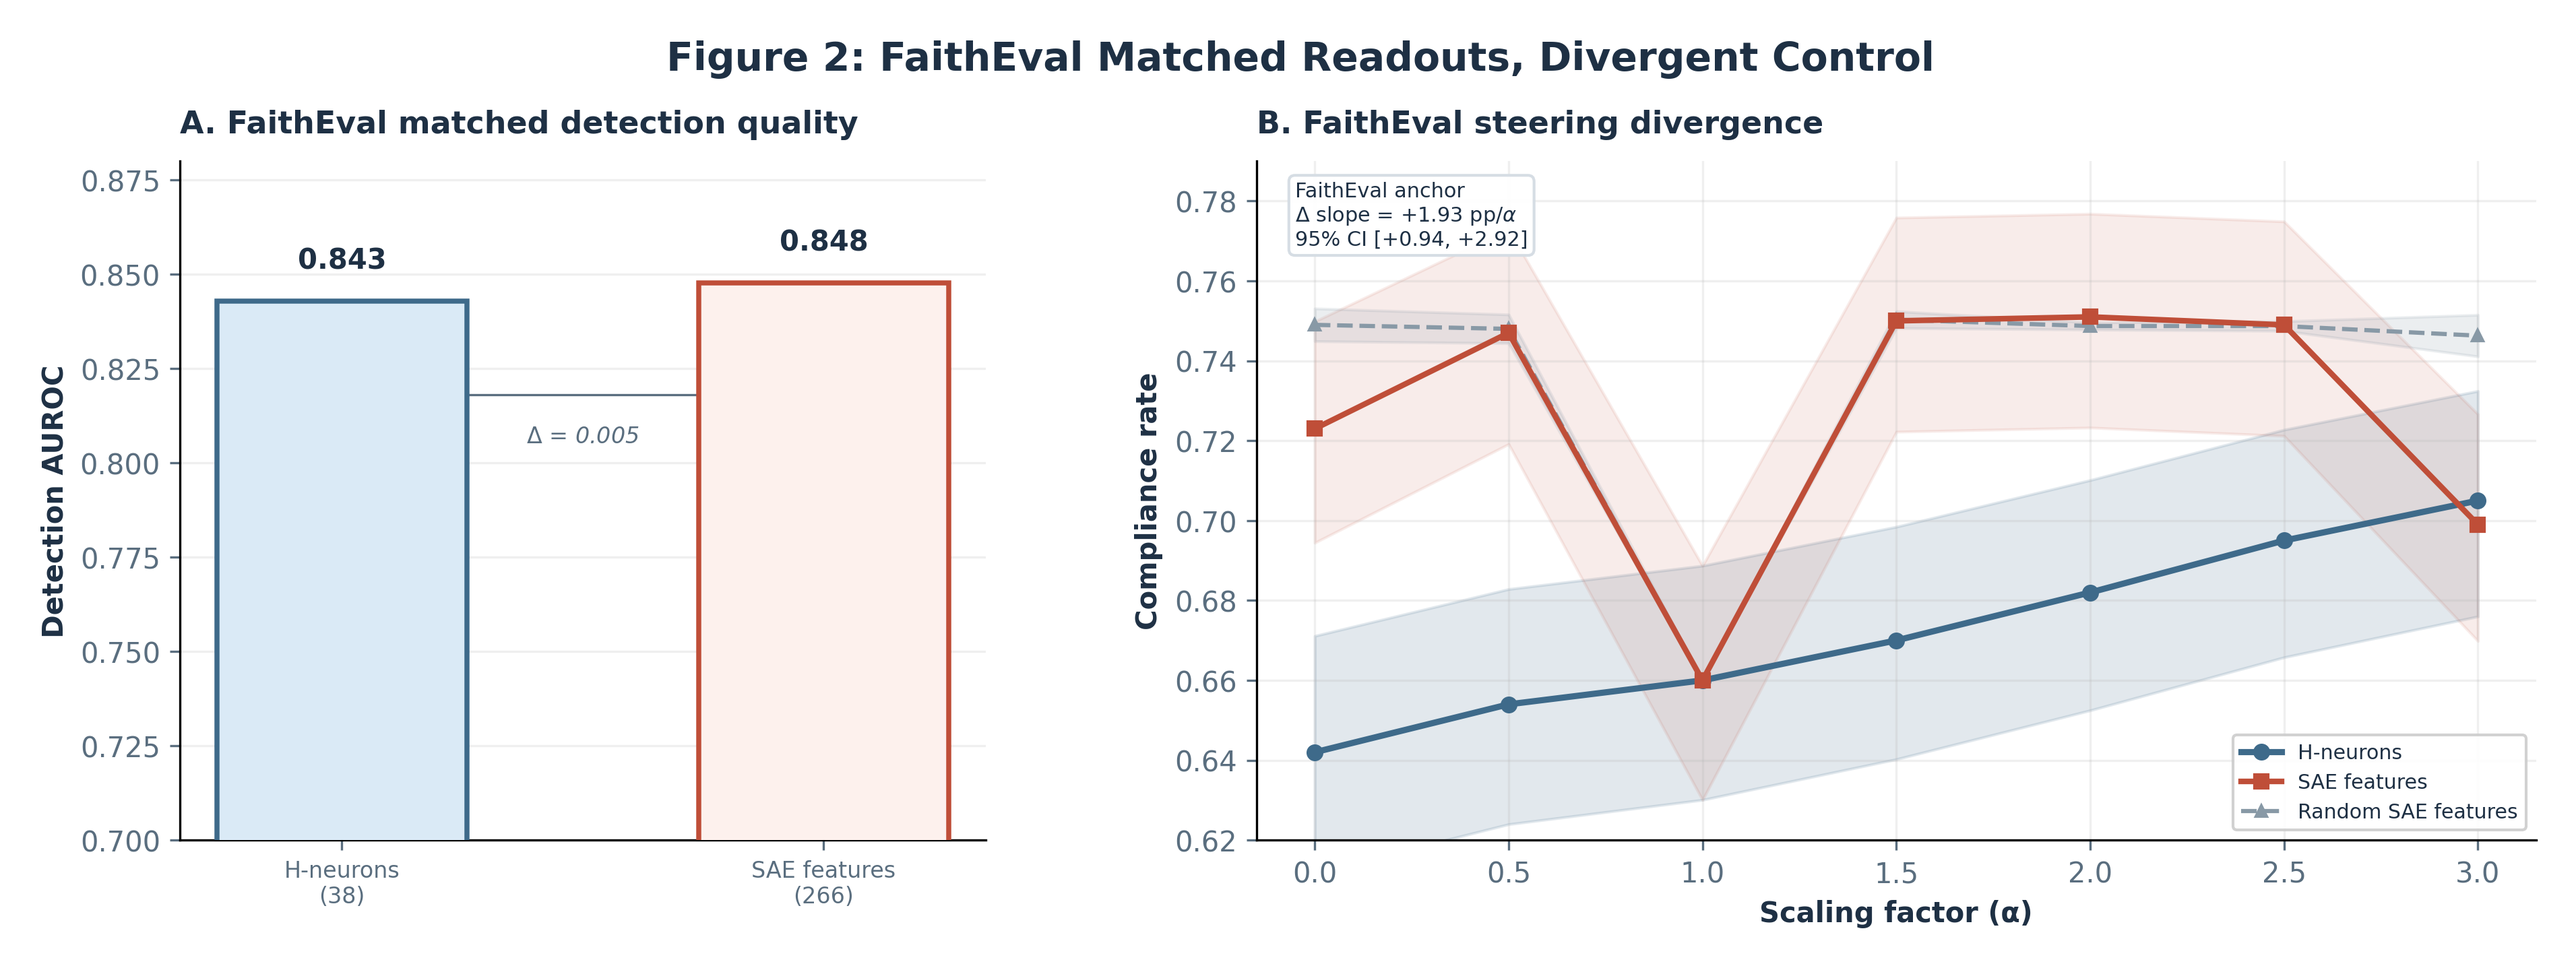
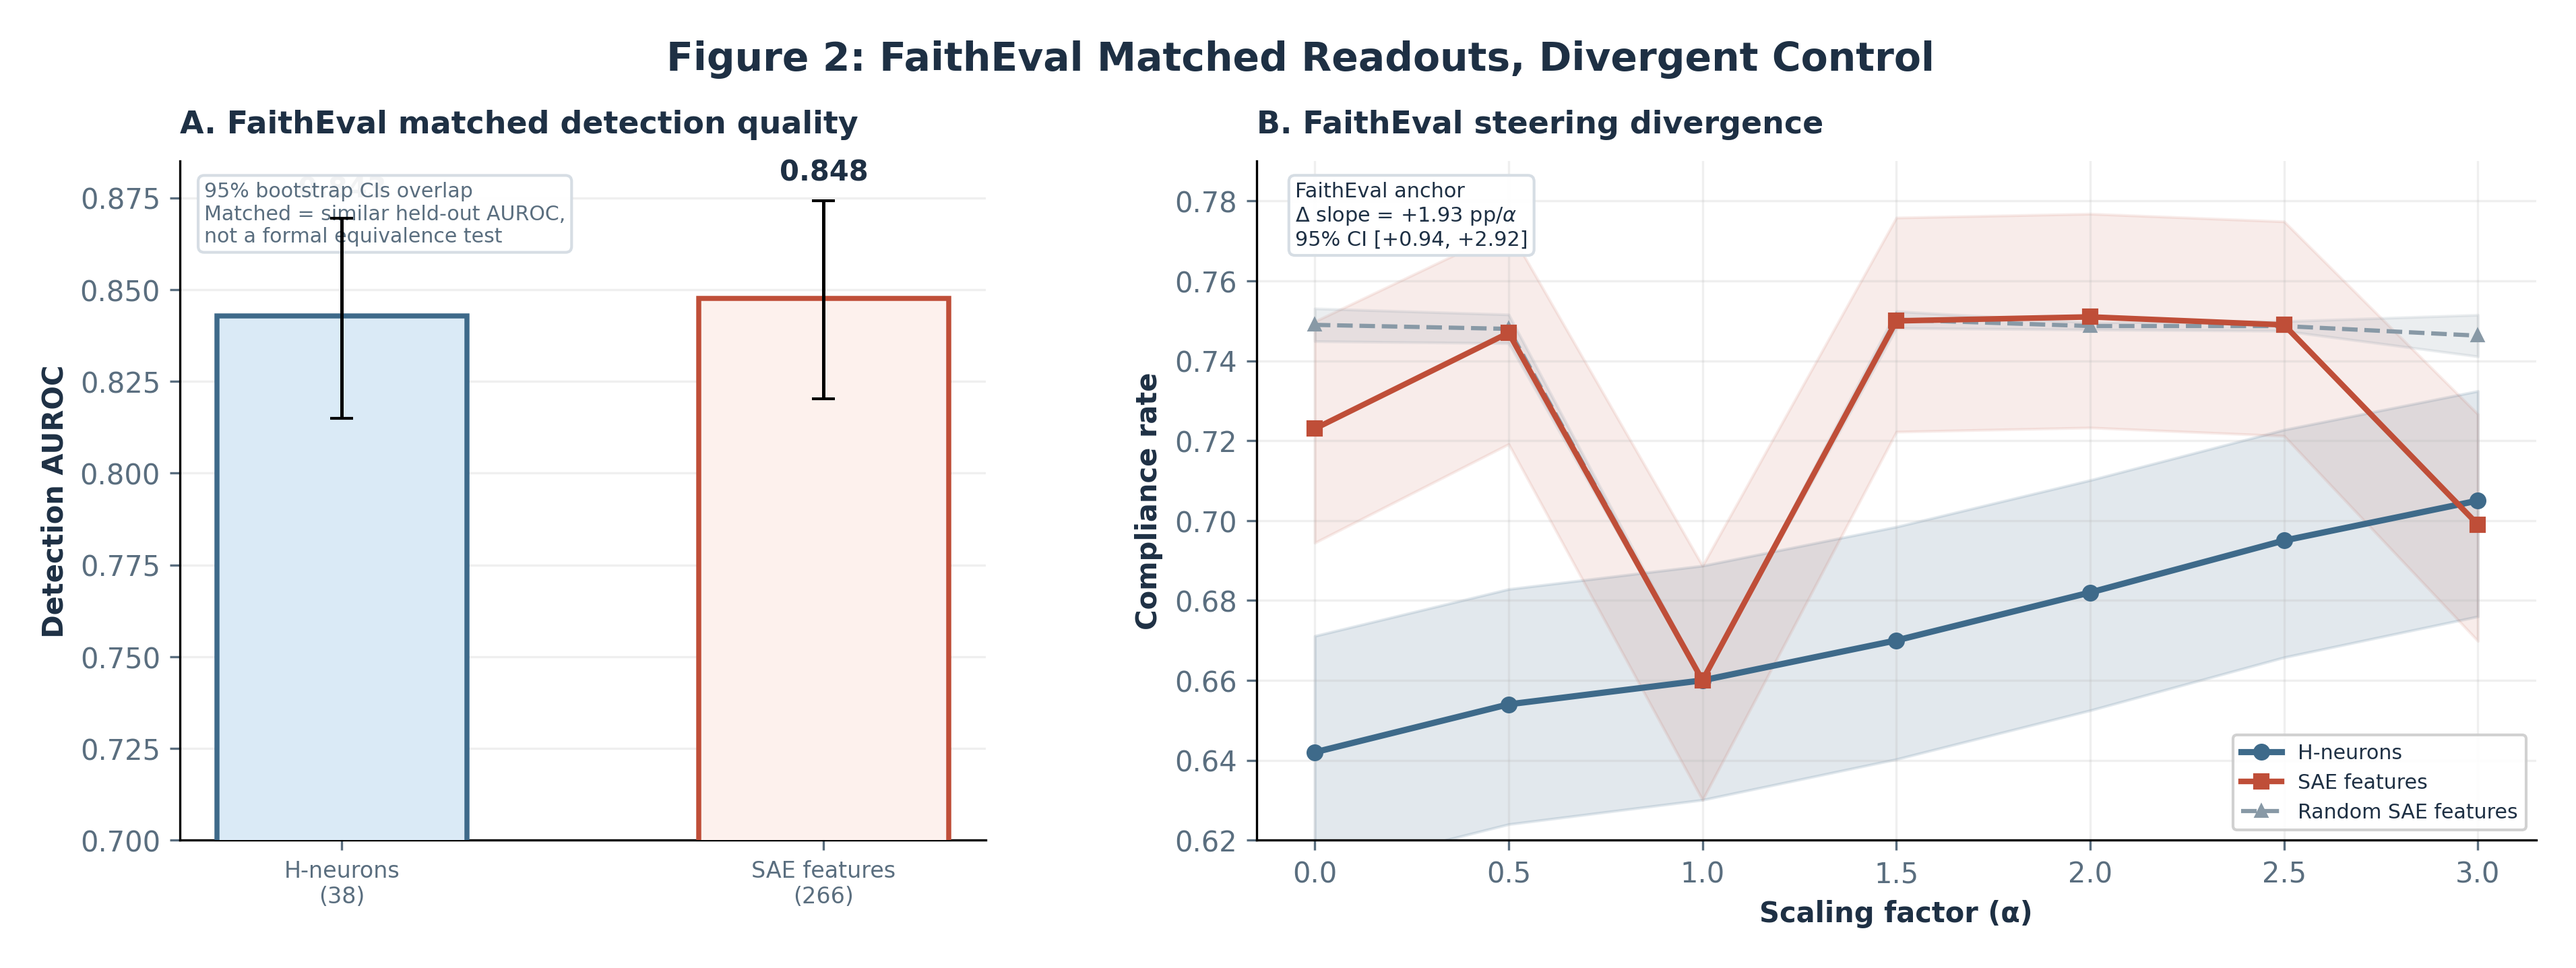
fix(fig2): add AUROC uncertainty and soften equivalence wording
Why:
- The matched-readout panel was signaling too much precision by showing point estimates without uncertainty.
- The caption language could be read as an equivalence claim even though the result supports similarity, not formal equivalence.

Side effects:
- Figure 2 now shows bootstrap error bars and explicitly frames the comparison as similar held-out AUROC rather than equivalence.
- The manuscript caption is aligned with that narrower interpretation.

diff --git a/paper/draft/figures/fig2_matched_readouts.py b/paper/draft/figures/fig2_matched_readouts.py
@@ -72,10 +72,14 @@ def load_data() -> dict:
 
     sae_results = fe_sae["results"]
     sae_ci = [sae_results[str(alpha)]["compliance"]["ci"] for alpha in alphas]
+    h_auroc = neuron_cls["evaluation"]["metrics"]["auroc"]
+    sae_auroc = sae_cls["evaluation"]["metrics"]["auroc"]
 
     return {
-        "auroc_h": neuron_cls["evaluation"]["metrics"]["auroc"]["estimate"],
-        "auroc_sae": sae_cls["best"]["test_metrics"]["auroc"],
+        "auroc_h": h_auroc["estimate"],
+        "auroc_h_ci": h_auroc["ci"],
+        "auroc_sae": sae_auroc["estimate"],
+        "auroc_sae_ci": sae_auroc["ci"],
         "alphas": np.array(alphas),
         "h_rates": np.array(fe_neuron_ctrl["h_neuron_baseline"]["compliance_rates"]),
         "h_ci_lo": np.array(
@@ -110,19 +114,26 @@ def load_data() -> dict:
 
 def draw_panel_a(ax: plt.Axes, data: dict) -> None:
     x = np.array([0.0, 1.0])
+    values = [data["auroc_h"], data["auroc_sae"]]
+    ci_bounds = [data["auroc_h_ci"], data["auroc_sae_ci"]]
+    err_lo = [val - ci["lower"] for val, ci in zip(values, ci_bounds, strict=True)]
+    err_hi = [ci["upper"] - val for val, ci in zip(values, ci_bounds, strict=True)]
     bars = ax.bar(
         x,
-        [data["auroc_h"], data["auroc_sae"]],
+        values,
         color=[C_HNEURON_FILL, C_SAE_FILL],
         edgecolor=[C_HNEURON, C_SAE],
         linewidth=1.8,
         width=0.52,
+        yerr=[err_lo, err_hi],
+        capsize=4,
+        error_kw={"linewidth": 1.2, "color": SUBTITLE_COLOR},
         zorder=3,
     )
-    for bar, val in zip(bars, [data["auroc_h"], data["auroc_sae"]]):
+    for bar, val, ci in zip(bars, values, ci_bounds, strict=True):
         ax.text(
             bar.get_x() + bar.get_width() / 2,
-            val + 0.007,
+            ci["upper"] + 0.004,
             f"{val:.3f}",
             ha="center",
             va="bottom",
@@ -130,25 +141,29 @@ def draw_panel_a(ax: plt.Axes, data: dict) -> None:
             fontweight="bold",
             color=TITLE_COLOR,
         )
-
-    ax.plot([0, 1], [0.818, 0.818], color=SUBTITLE_COLOR, linewidth=0.8)
-    ax.plot([0, 0], [0.818, 0.823], color=SUBTITLE_COLOR, linewidth=0.8)
-    ax.plot([1, 1], [0.818, 0.823], color=SUBTITLE_COLOR, linewidth=0.8)
     ax.text(
-        0.5,
-        0.81,
-        r"$\Delta$ = 0.005",
-        ha="center",
+        0.03,
+        0.97,
+        "95% bootstrap CIs overlap\n"
+        + "Matched = similar held-out AUROC,\n"
+        + "not a formal equivalence test",
+        transform=ax.transAxes,
+        ha="left",
         va="top",
-        fontsize=8,
+        fontsize=7.2,
         color=SUBTITLE_COLOR,
-        fontstyle="italic",
+        bbox=dict(
+            boxstyle="round,pad=0.30",
+            facecolor="white",
+            edgecolor="#D4DCE3",
+            alpha=0.95,
+        ),
     )
 
     ax.set_xticks([0, 1])
     ax.set_xticklabels(["H-neurons\n(38)", "SAE features\n(266)"], fontsize=8)
     ax.set_ylabel("Detection AUROC", fontsize=10, fontweight="bold")
-    ax.set_ylim(0.70, 0.88)
+    ax.set_ylim(0.70, 0.885)
     ax.set_title(
         "A. FaithEval matched detection quality",
         fontsize=11,

diff --git a/paper/draft/full_paper.md b/paper/draft/full_paper.md
@@ -130,7 +130,7 @@ We therefore organize the section by evidential strength. Section 4.1 establishe
 Figure 2 shows only the FaithEval anchor comparison. Supporting jailbreak selector detail is summarized later in the section and in Appendix Table D1.
 
 ![Figure 2. Matched readouts, divergent control.](figures/fig2_matched_readouts.png)
-*Figure 2. The anchor result is the matched FaithEval neuron-versus-SAE comparison: detection quality is similar, but steering behavior diverges sharply.*
+*Figure 2. The anchor result is the matched FaithEval neuron-versus-SAE comparison: held-out readout quality is similar, though this is not a formal equivalence claim, while steering behavior diverges sharply.*
 
 ## 4.1 The Readouts Are Real
 

diff --git a/paper/draft/section_4_case_study_I.md b/paper/draft/section_4_case_study_I.md
@@ -7,7 +7,7 @@ We therefore organize the section by evidential strength. Section 4.1 establishe
 Figure 2 shows only the FaithEval anchor comparison. Supporting jailbreak selector detail is summarized later in the section and in Appendix Table D1.
 
 ![Figure 2. Matched readouts, divergent control.](figures/fig2_matched_readouts.png)
-*Figure 2. The anchor result is the matched FaithEval neuron-versus-SAE comparison: detection quality is similar, but steering behavior diverges sharply.*
+*Figure 2. The anchor result is the matched FaithEval neuron-versus-SAE comparison: held-out readout quality is similar, though this is not a formal equivalence claim, while steering behavior diverges sharply.*
 
 ## 4.1 The Readouts Are Real
 
